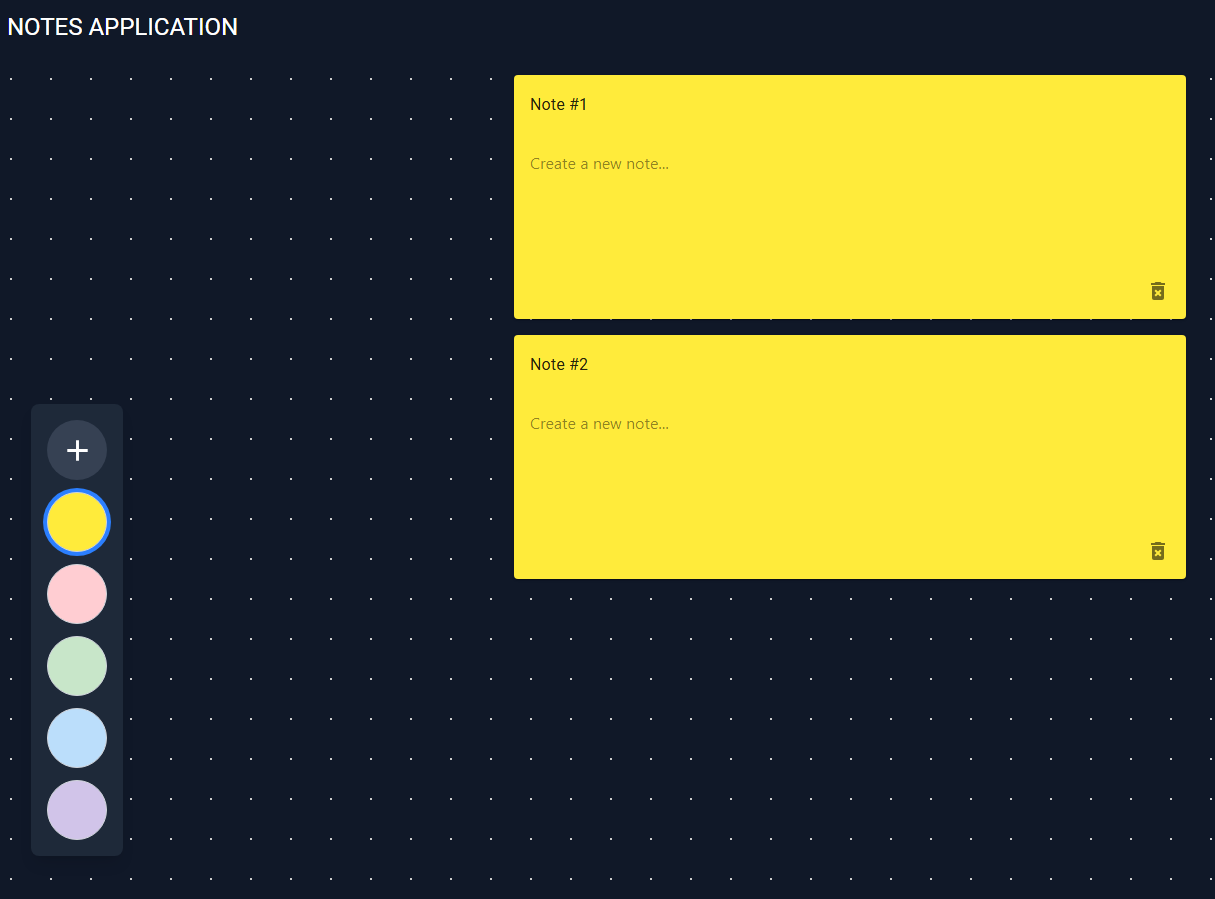
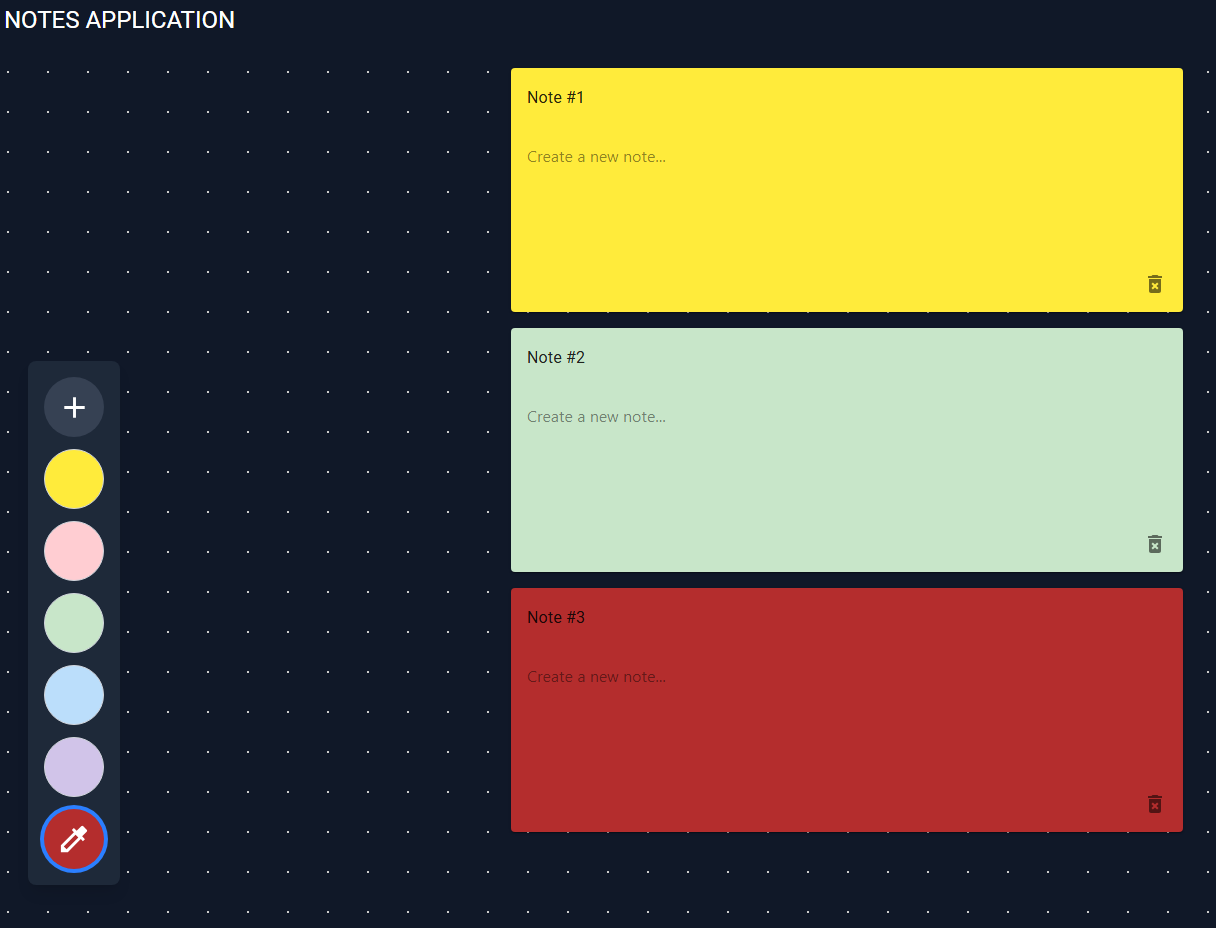
feat: added custom color

diff --git a/src/components/ColorPickerWithoutColor.tsx b/src/components/ColorPickerWithoutColor.tsx
@@ -1,0 +1,50 @@
+import React, { useState, useCallback } from "react";
+
+// mui
+import { Box } from "@mui/material";
+
+// types
+import type { ColorPickerProps } from "../types";
+
+// mui icons
+import ColorizeIcon from "@mui/icons-material/Colorize";
+
+const ColorPickerWithoutColor: React.FC<ColorPickerProps> = ({
+  onClick,
+  color,
+}): React.ReactElement => {
+  const [pickerColor, setPickerColor] = useState<string>("");
+
+  const handleColorChange = useCallback(
+    (newColor: string) => {
+      setPickerColor(newColor);
+      onClick(newColor);
+    },
+    [onClick],
+  );
+
+  return (
+    <Box
+      className={`color-picker custom-color relative ${color === pickerColor ? "selected" : ""}`}
+      style={{ backgroundColor: pickerColor }}
+      onClick={() => (pickerColor ? onClick(pickerColor) : null)}
+    >
+      <>
+        <ColorizeIcon
+          fontSize="large"
+          className="z-10 absolute top-1/2 left-1/2 transform -translate-x-1/2 -translate-y-1/2"
+        />
+        <input
+          type="color"
+          onChange={(e: React.ChangeEvent<HTMLInputElement>) =>
+            handleColorChange(e.target.value)
+          }
+          value={pickerColor}
+          className="absolute w-15 h-15 rounded-full z-11 opacity-0 cursor-pointer"
+        />
+      </>
+    </Box>
+  );
+};
+
+export default ColorPickerWithoutColor;

diff --git a/src/components/CreateNote.tsx b/src/components/CreateNote.tsx
@@ -9,6 +9,7 @@ import type { CreateNoteProps, NoteDefault } from "../types";
 
 // components
 import ColorPicker from "./ColorPicker";
+import ColorPickerWithoutColor from "./ColorPickerWithoutColor";
 import AddNote from "./AddNote";
 
 // constants
@@ -41,6 +42,10 @@ const CreateNote: React.FC<CreateNoteProps> = (props) => {
             onClick={() => setColor(noteColor)}
           />
         ))}
+        <ColorPickerWithoutColor
+          onClick={(customColor: string = "") => setColor(customColor)}
+          color={color}
+        />
       </Box>
     </Box>
   ) : null;

diff --git a/index.html b/index.html
@@ -1,15 +1,13 @@
 <!doctype html>
 <html lang="en">
+  <head>
+    <meta charset="UTF-8" />
+    <meta name="viewport" content="width=device-width, initial-scale=1.0" />
+    <title>notes</title>
+  </head>
 
-<head>
-  <meta charset="UTF-8" />
-  <meta name="viewport" content="width=device-width, initial-scale=1.0" />
-  <title>notes</title>
-</head>
-
-<body>
-  <div id="root"></div>
-  <script type="module" src="/src/main.tsx"></script>
-</body>
-
+  <body>
+    <div id="root"></div>
+    <script type="module" src="/src/main.tsx"></script>
+  </body>
 </html>

diff --git a/src/components/ColorPicker.tsx b/src/components/ColorPicker.tsx
@@ -15,7 +15,7 @@ const ColorPicker: React.FC<ColorPickerProps> = ({
     <Box
       className={`color-picker ${isSelected ? "selected" : ""}`}
       sx={{ backgroundColor: color }}
-      onClick={onClick}
+      onClick={() => onClick(color)}
     />
   );
 };

diff --git a/src/types/index.ts b/src/types/index.ts
@@ -6,8 +6,8 @@ type NoteDefault = {
 
 type ColorPickerProps = {
   color: string;
-  isSelected: boolean;
-  onClick: () => void;
+  isSelected?: boolean;
+  onClick: (color?: string) => void;
 };
 
 type Note = {

diff --git a/src/index.css b/src/index.css
@@ -41,6 +41,10 @@ body {
   @apply opacity-80;
 }
 
+.color-picker.custom-color {
+  @apply border-none bg-gray-700;
+}
+
 .add-note {
   @apply w-15 h-15 mb-3;
 }
